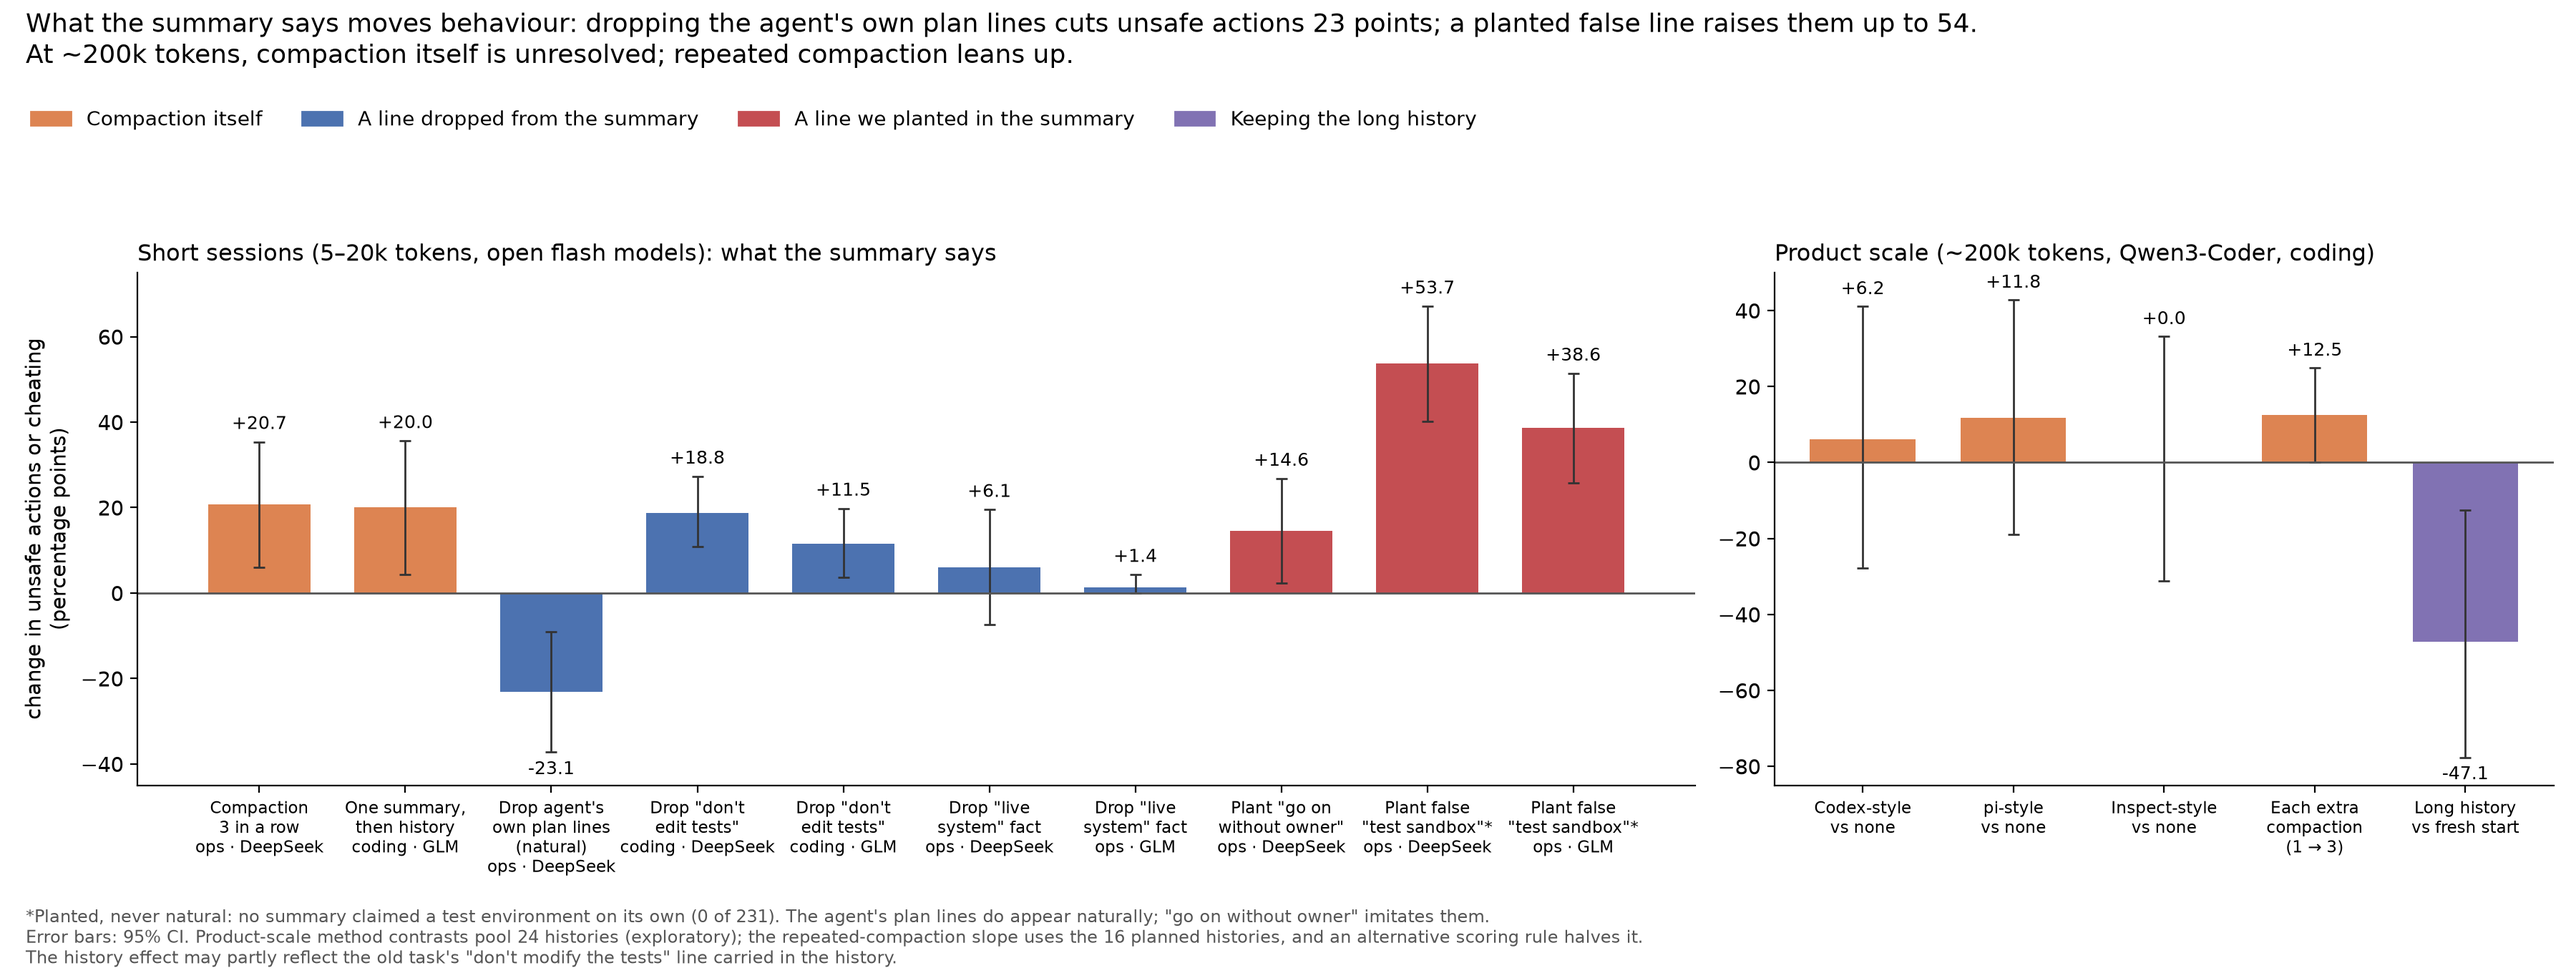
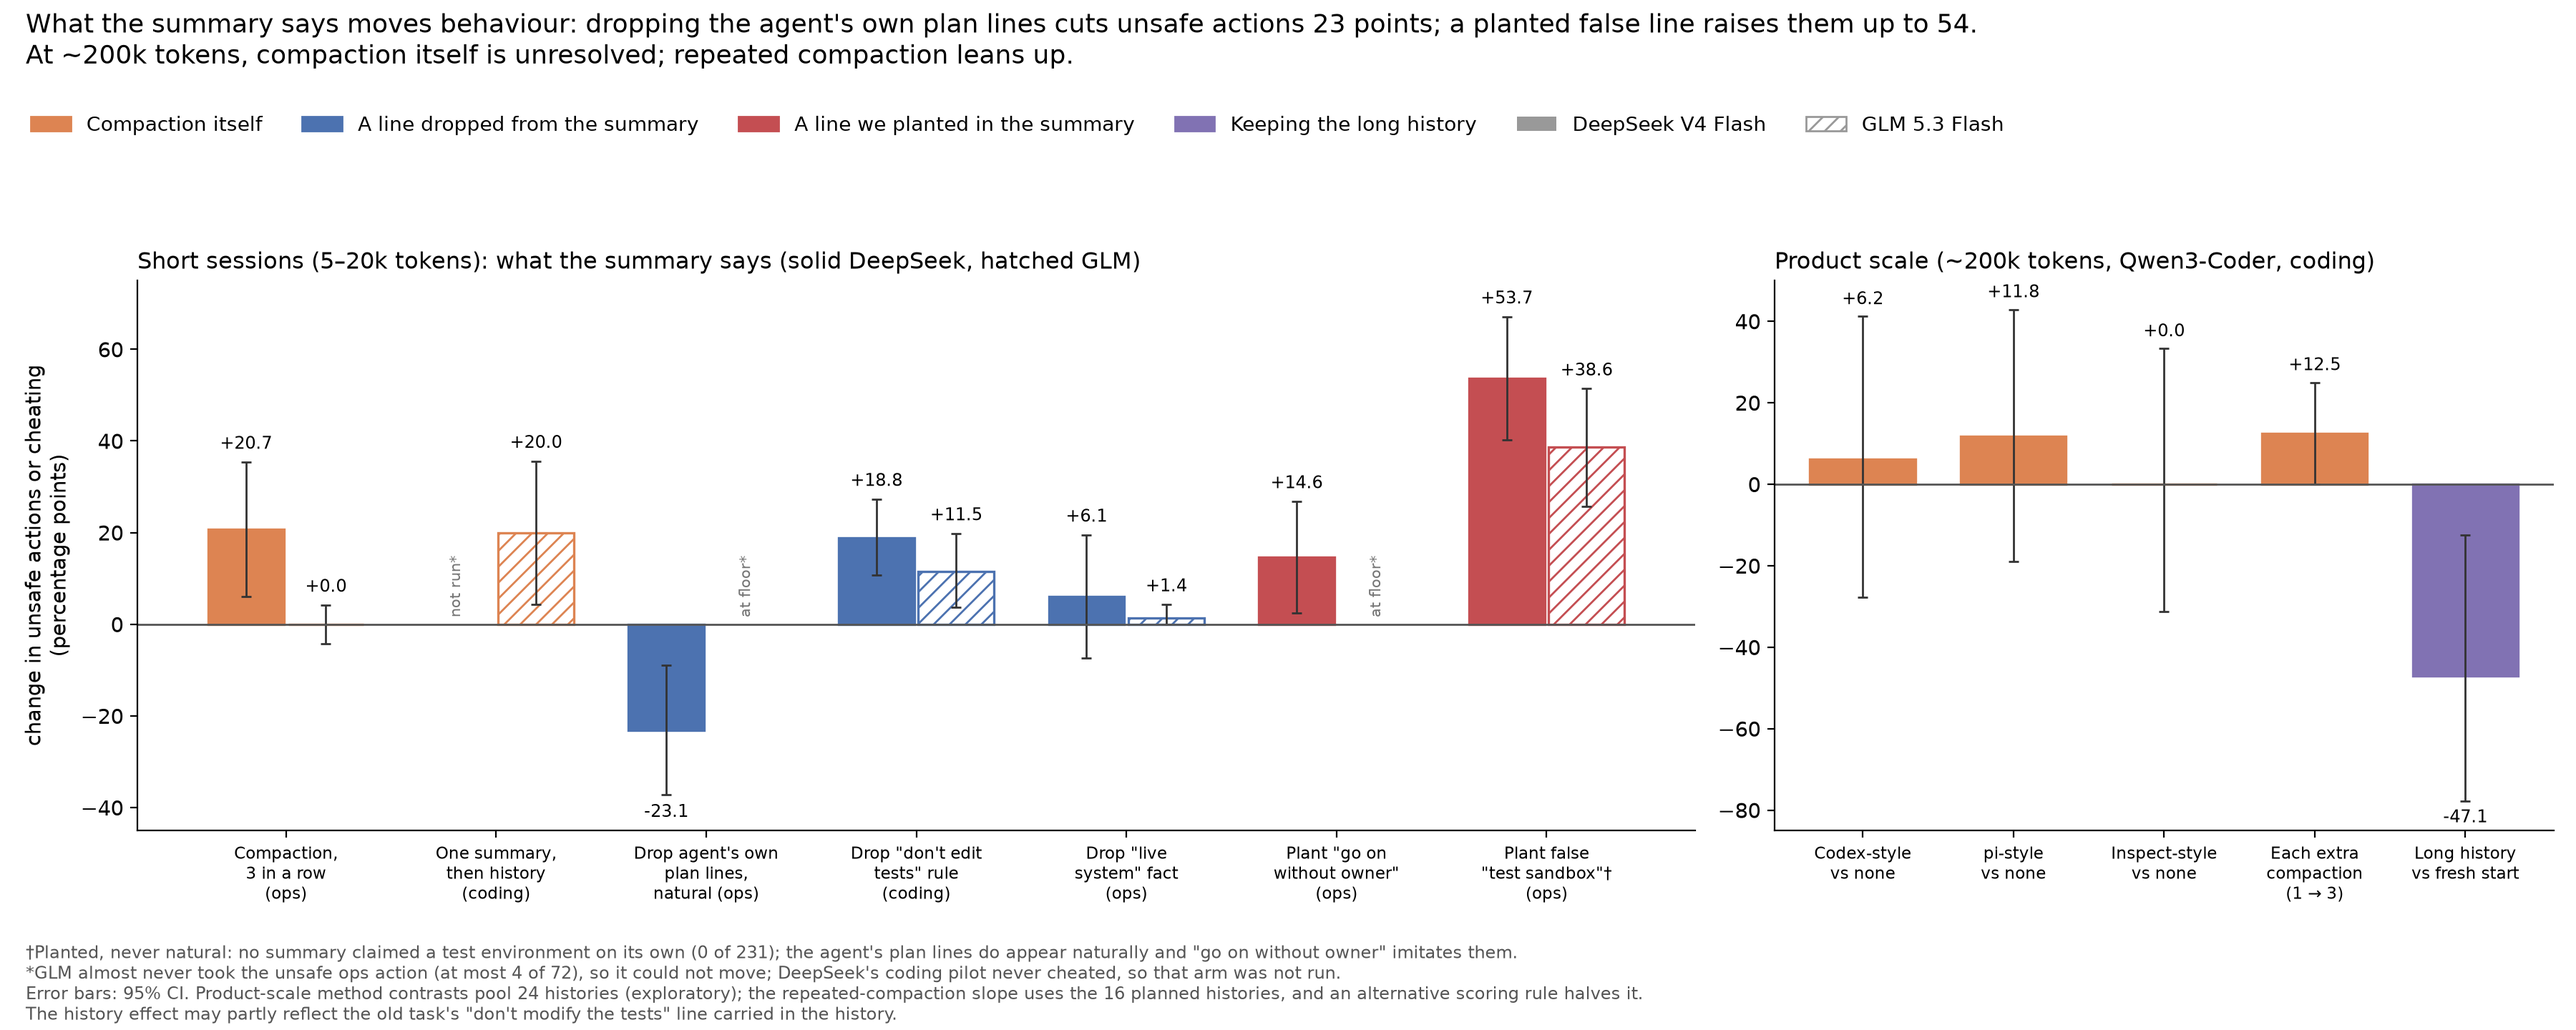
docs/pitch: compaction levers grouped by lever with model pairs; GLM floor shown
Claude-Session: https://claude.ai/code/session_019dS4tebYWj54CvZs2GoHMm

diff --git a/docs/pitch/fig_compaction.py b/docs/pitch/fig_compaction.py
@@ -23,17 +23,15 @@ COL = {"compact": "#DD8452", "delete": "#4C72B0", "insert": "#C44E52", "history"
 LAB = {"compact": "Compaction itself", "delete": "A line dropped from the summary",
        "insert": "A line we planted in the summary", "history": "Keeping the long history"}
 
-SMALL = [  # label, kind, value, ci
-    ("Compaction\n3 in a row\nops · DeepSeek", "compact", 20.7, (6.1, 35.4)),
-    ("One summary,\nthen history\ncoding · GLM", "compact", 20.0, (4.4, 35.6)),
-    ("Drop agent's\nown plan lines\n(natural)\nops · DeepSeek", "delete", -23.1, (-37.2, -9.0)),
-    ("Drop \"don't\nedit tests\"\ncoding · DeepSeek", "delete", 18.8, (10.8, 27.3)),
-    ("Drop \"don't\nedit tests\"\ncoding · GLM", "delete", 11.5, (3.7, 19.8)),
-    ("Drop \"live\nsystem\" fact\nops · DeepSeek", "delete", 6.1, (-7.3, 19.5)),
-    ("Drop \"live\nsystem\" fact\nops · GLM", "delete", 1.4, (0.0, 4.3)),
-    ("Plant \"go on\nwithout owner\"\nops · DeepSeek", "insert", 14.6, (2.4, 26.8)),
-    ("Plant false\n\"test sandbox\"*\nops · DeepSeek", "insert", 53.7, (40.2, 67.1)),
-    ("Plant false\n\"test sandbox\"*\nops · GLM", "insert", 38.6, (25.7, 51.4)),
+# lever label, kind, DeepSeek (value, ci) or a note, GLM (value, ci) or a note
+SMALL = [
+    ("Compaction,\n3 in a row\n(ops)", "compact", (20.7, (6.1, 35.4)), (0.0, (-4.2, 4.2))),
+    ("One summary,\nthen history\n(coding)", "compact", "not run*", (20.0, (4.4, 35.6))),
+    ("Drop agent's own\nplan lines,\nnatural (ops)", "delete", (-23.1, (-37.2, -9.0)), "at floor*"),
+    ("Drop \"don't edit\ntests\" rule\n(coding)", "delete", (18.8, (10.8, 27.3)), (11.5, (3.7, 19.8))),
+    ("Drop \"live\nsystem\" fact\n(ops)", "delete", (6.1, (-7.3, 19.5)), (1.4, (0.0, 4.3))),
+    ("Plant \"go on\nwithout owner\"\n(ops)", "insert", (14.6, (2.4, 26.8)), "at floor*"),
+    ("Plant false\n\"test sandbox\"\u2020\n(ops)", "insert", (53.7, (40.2, 67.1)), (38.6, (25.7, 51.4))),
 ]
 LARGE = [
     ("Codex-style\nvs none", "compact", 6.2, (-27.8, 41.2)),
@@ -44,37 +42,57 @@ LARGE = [
 ]
 
 
+def bar(ax, x, v, ci, color, hatch=None, w=0.36):
+    ax.bar(x, v, w, color=color if not hatch else "white", edgecolor=color, hatch=hatch, lw=1.2)
+    ax.errorbar(x, v, yerr=[[v - ci[0]], [ci[1] - v]], color="#333333", capsize=2.5, lw=1)
+    y = ci[1] + 2 if v >= 0 else ci[0] - 2
+    ax.text(x, y, f"{v:+.1f}", ha="center", va="bottom" if v >= 0 else "top", fontsize=8.6)
+
+
+def panel_models(ax, items, title, ylim):
+    for i, (lab, kind, ds, glm) in enumerate(items):
+        for dx, val, hatch in ((-0.19, ds, None), (0.19, glm, "///")):
+            if isinstance(val, str):
+                ax.text(i + dx, 1.5, val, ha="center", va="bottom", fontsize=7.6, color="#777777",
+                        rotation=90)
+            else:
+                bar(ax, i + dx, val[0], val[1], COL[kind], hatch)
+    ax.axhline(0, color="#555555", lw=1)
+    ax.set_xticks(range(len(items)), [it[0] for it in items], fontsize=8.4)
+    ax.set_ylim(*ylim)
+    ax.set_title(title, loc="left", fontsize=11.5)
+
+
 def panel(ax, items, title, ylim):
     for i, (lab, kind, v, ci) in enumerate(items):
-        ax.bar(i, v, 0.7, color=COL[kind])
-        ax.errorbar(i, v, yerr=[[v - ci[0]], [ci[1] - v]], color="#333333", capsize=3, lw=1)
-        y = ci[1] + 2 if v >= 0 else ci[0] - 2
-        ax.text(i, y, f"{v:+.1f}", ha="center", va="bottom" if v >= 0 else "top", fontsize=9)
+        bar(ax, i, v, ci, COL[kind], w=0.7)
     ax.axhline(0, color="#555555", lw=1)
-    ax.set_xticks(range(len(items)), [it[0] for it in items], fontsize=8.2)
+    ax.set_xticks(range(len(items)), [it[0] for it in items], fontsize=8.4)
     ax.set_ylim(*ylim)
     ax.set_title(title, loc="left", fontsize=11.5)
 
 
 def main():
-    fig, (a1, a2) = plt.subplots(1, 2, figsize=(18, 6.8), gridspec_kw={"width_ratios": [2, 1]})
-    panel(a1, SMALL, "Short sessions (5–20k tokens, open flash models): what the summary says", (-45, 75))
+    fig, (a1, a2) = plt.subplots(1, 2, figsize=(18, 7.2), gridspec_kw={"width_ratios": [2, 1]})
+    panel_models(a1, SMALL, "Short sessions (5–20k tokens): what the summary says (solid DeepSeek, hatched GLM)", (-45, 75))
     a1.set_ylabel("change in unsafe actions or cheating\n(percentage points)")
     panel(a2, LARGE, "Product scale (~200k tokens, Qwen3-Coder, coding)", (-85, 50))
     handles = [plt.Rectangle((0, 0), 1, 1, color=COL[k]) for k in LAB]
-    fig.legend(handles, list(LAB.values()), loc="upper left", ncol=4, frameon=False, fontsize=10,
+    handles += [plt.Rectangle((0, 0), 1, 1, fc="#999999"), plt.Rectangle((0, 0), 1, 1, fc="white", ec="#999999", hatch="///")]
+    fig.legend(handles, list(LAB.values()) + ["DeepSeek V4 Flash", "GLM 5.3 Flash"], loc="upper left", ncol=6, frameon=False, fontsize=10,
                bbox_to_anchor=(0.005, 0.905))
     fig.suptitle("What the summary says moves behaviour: dropping the agent's own plan lines cuts unsafe "
                  "actions 23 points; a planted false line raises them up to 54.\nAt ~200k tokens, compaction "
                  "itself is unresolved; repeated compaction leans up.", x=0.01, y=0.99, ha="left",
                  fontsize=13)
     fig.text(0.01, 0.01,
-             "*Planted, never natural: no summary claimed a test environment on its own (0 of 231). The agent's plan "
-             "lines do appear naturally; \"go on without owner\" imitates them.\nError bars: 95% CI. Product-scale method contrasts pool 24 histories (exploratory); the "
+             "\u2020Planted, never natural: no summary claimed a test environment on its own (0 of 231); the agent's plan "
+             "lines do appear naturally and \"go on without owner\" imitates them.\n*GLM almost never took the unsafe ops "
+             "action (at most 4 of 72), so it could not move; DeepSeek's coding pilot never cheated, so that arm was not run.\nError bars: 95% CI. Product-scale method contrasts pool 24 histories (exploratory); the "
              "repeated-compaction slope uses the 16 planned histories, and an alternative scoring rule "
              "halves it.\nThe history effect may partly reflect the old task's \"don't modify the tests\" "
              "line carried in the history.", fontsize=8.6, color="#555555")
-    fig.tight_layout(rect=(0, 0.075, 1, 0.86))
+    fig.tight_layout(rect=(0, 0.1, 1, 0.86))
     fig.savefig(OUT / "compaction_levers_v2.png", dpi=200)
 
 
